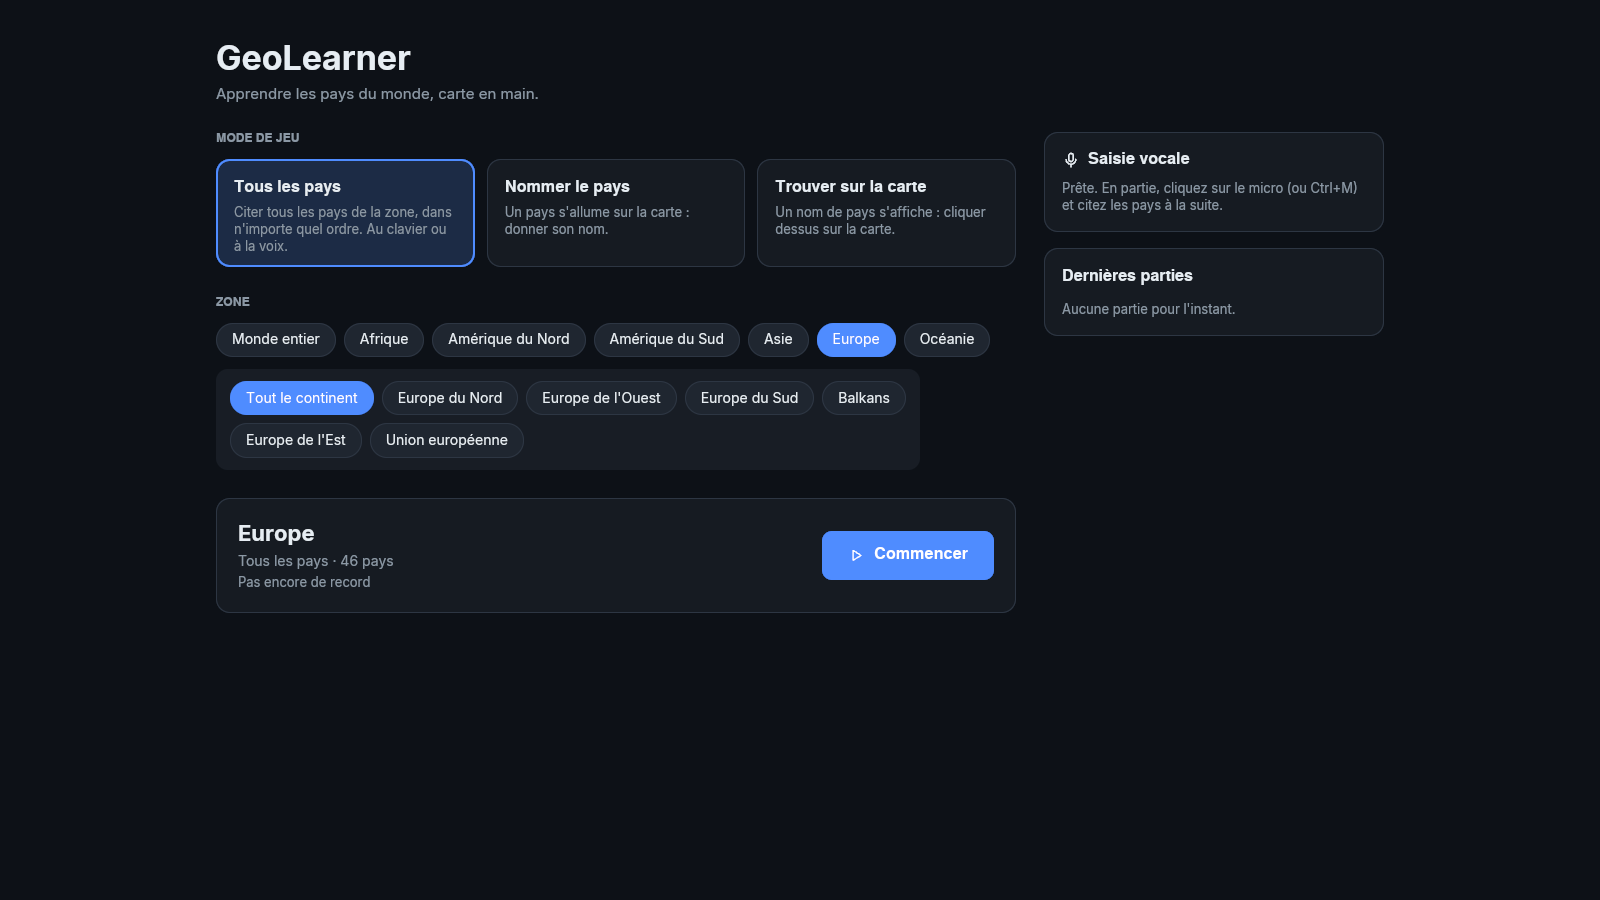
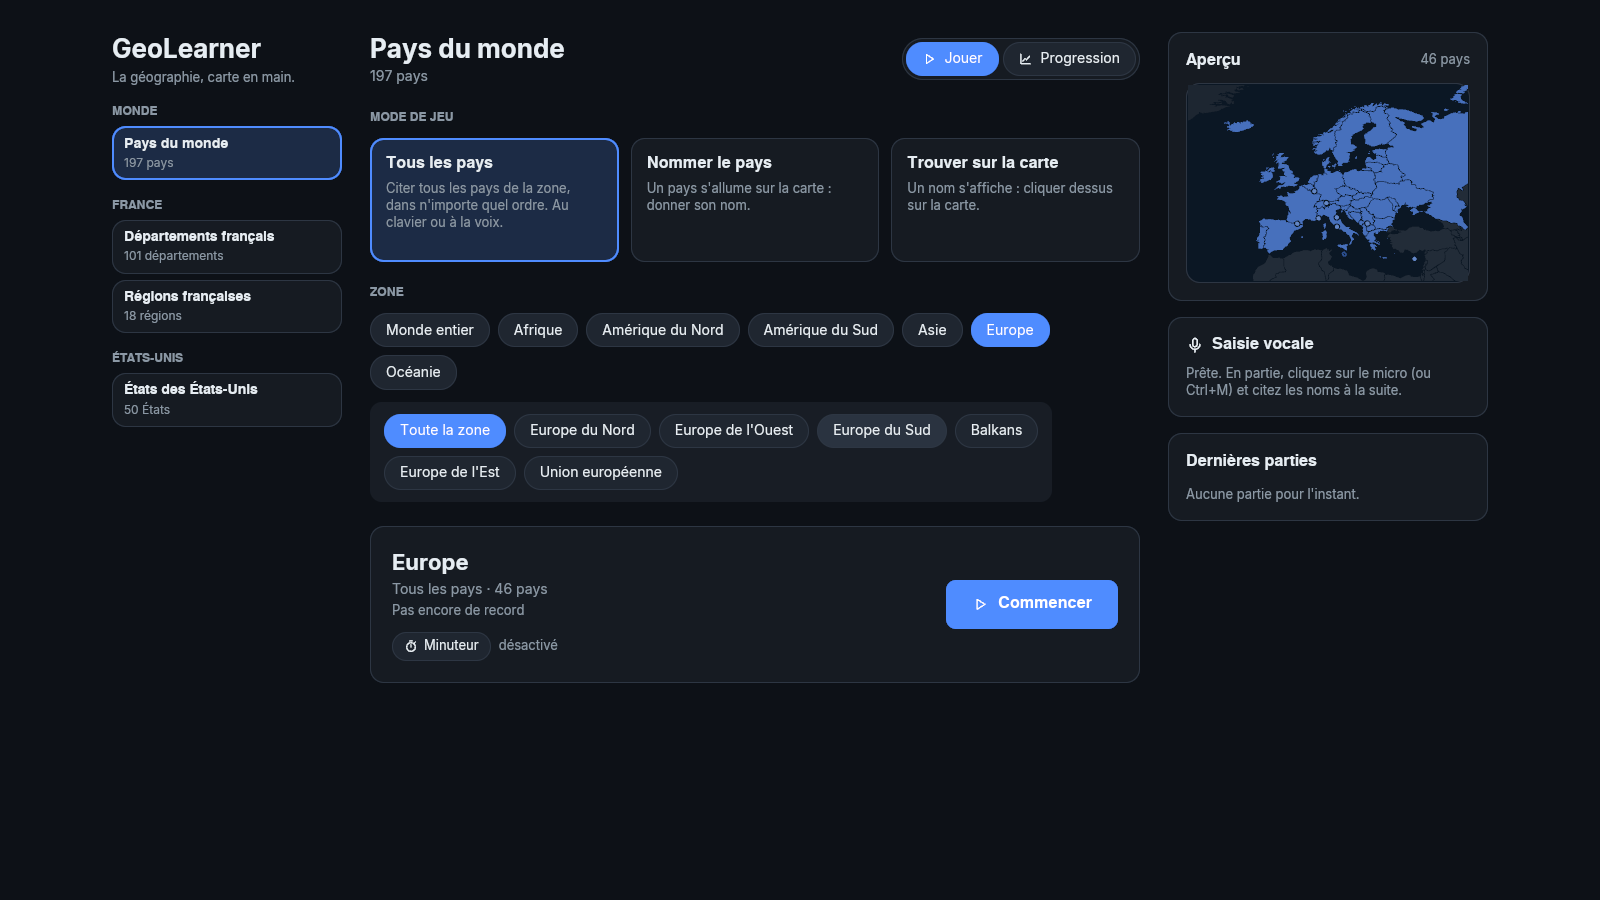
Fiche du Store : captures et textes à jour des nouveaux quiz
- 7 captures 1600×900 : accueil, pays du monde (tous, nommer), départements,
  États-Unis, progression, bilan.
- Descriptions et fonctionnalités : départements, régions, États, minuteur,
  onglet Progression.
- Mots-clés ramenés à 7 (limite du Store), sans « capitales ».

diff --git a/docs/microsoft-store.md b/docs/microsoft-store.md
@@ -74,43 +74,66 @@ Certification Kit* (fourni avec le SDK Windows) permet aussi de lancer les tests
 | Propriétés | Catégorie **Éducation** ; politique de confidentialité : <https://gist.github.com/paul-mesnilgrente/5884474ce8f49255bbf82e746cb33adc> |
 | Classification par âge | Questionnaire IARC : aucun contenu sensible → PEGI 3 attendu |
 | Paquets | Le `.msix` |
-| Fiche (français) | Textes ci-dessous, captures `docs/store/1-…4-*.png`, logo `docs/store/logo-300.png` |
+| Fiche (français) | Textes ci-dessous, captures `docs/store/1-…7-*.png` (dans l'ordre), logo `docs/store/logo-300.png` |
 | Remarques pour la certification | Texte ci-dessous (la capacité `runFullTrust` doit être justifiée) |
 
 ### Description courte
 
-> Apprenez les pays du monde sur une carte interactive, au clavier ou à la voix.
+> Apprenez les pays du monde, les départements français et les États américains sur une carte
+> interactive, au clavier ou à la voix.
 
 ### Description
 
-> GeoLearner vous aide à retenir les 197 pays du monde, carte à l'appui.
+> GeoLearner vous aide à retenir la carte du monde, et bien plus : les 197 pays, les
+> départements et les régions de France, les 50 États des États-Unis.
 >
 > Trois façons de jouer :
-> • Tous les pays : citez tous les pays d'une zone, dans l'ordre que vous voulez. Chaque pays
-> trouvé se colore sur la carte.
-> • Nommer le pays : un pays s'allume, à vous de trouver son nom.
-> • Trouver sur la carte : un nom s'affiche, cliquez sur le bon pays.
+> • Tout citer : nommez tous les lieux d'une zone, dans l'ordre que vous voulez. Chaque réponse
+> juste se colore sur la carte.
+> • Nommer : un pays ou un département s'allume, à vous de trouver son nom.
+> • Trouver sur la carte : un nom s'affiche, cliquez au bon endroit.
 >
 > Jouez sur le monde entier, un continent, une région (Balkans, Caraïbes, Asie centrale,
-> Polynésie…) ou un regroupement comme les Petites Antilles ou l'Union européenne.
+> Polynésie…) ou un regroupement comme les Petites Antilles ou l'Union européenne. Côté France,
+> révisez la métropole, l'outre-mer ou une seule région ; côté États-Unis, une région ou une
+> division du recensement. Les numéros de département sont acceptés (« 75 », « 2A »).
 >
-> Saisie vocale : énumérez les pays à voix haute, ils sont validés au fil de la parole. La
+> Saisie vocale : énumérez les noms à voix haute, ils sont validés au fil de la parole. La
 > reconnaissance se fait entièrement sur votre ordinateur, sans envoyer votre voix sur Internet.
 >
-> Vos records et les pays à revoir sont enregistrés localement. Aucun compte, aucune publicité.
+> Minuteur facultatif, réglable pour chaque mode et chaque zone. L'onglet Progression trace
+> l'évolution de votre score et de votre temps, partie après partie, et liste les lieux que vous
+> ratez le plus souvent.
+>
+> Tout reste sur votre ordinateur. Aucun compte, aucune publicité.
 
 ### Fonctionnalités (liste du Store)
 
 - 197 pays : les 193 membres de l'ONU, plus le Vatican, la Palestine, le Kosovo et Taïwan
-- Trois modes de jeu
+- Départements français (101), régions françaises (18) et États des États-Unis (50)
+- Trois modes de jeu : tout citer, nommer, trouver sur la carte
 - Monde, continents, sous-régions et regroupements d'îles
 - Saisie vocale hors ligne, validée au fil de la parole
-- Carte interactive : zoom, déplacement, micro-États repérables
-- Records et pays à revoir, enregistrés localement
+- Minuteur facultatif, réglable pour chaque mode et chaque zone
+- Courbes de progression : score, temps et lieux à revoir
+- Carte interactive : zoom, déplacement, archipels et micro-États repérables
 
 ### Mots-clés
 
-géographie, pays, carte, quiz, monde, capitales, éducation, apprendre
+Le Store en accepte 7 au plus : géographie, pays, carte du monde, quiz, départements,
+États-Unis, éducation.
+
+### Captures
+
+Dans l'ordre (1600×900, générées par le mode démo, voir le README) :
+
+1. Accueil : catalogue des quiz, modes et zones
+2. Pays du monde, « Tous les pays » en cours
+3. Pays du monde, « Nommer le pays »
+4. Départements français, avec les encarts de l'outre-mer
+5. États des États-Unis, « Trouver sur la carte »
+6. Onglet Progression
+7. Bilan d'une partie
 
 ### Remarques pour la certification
 
